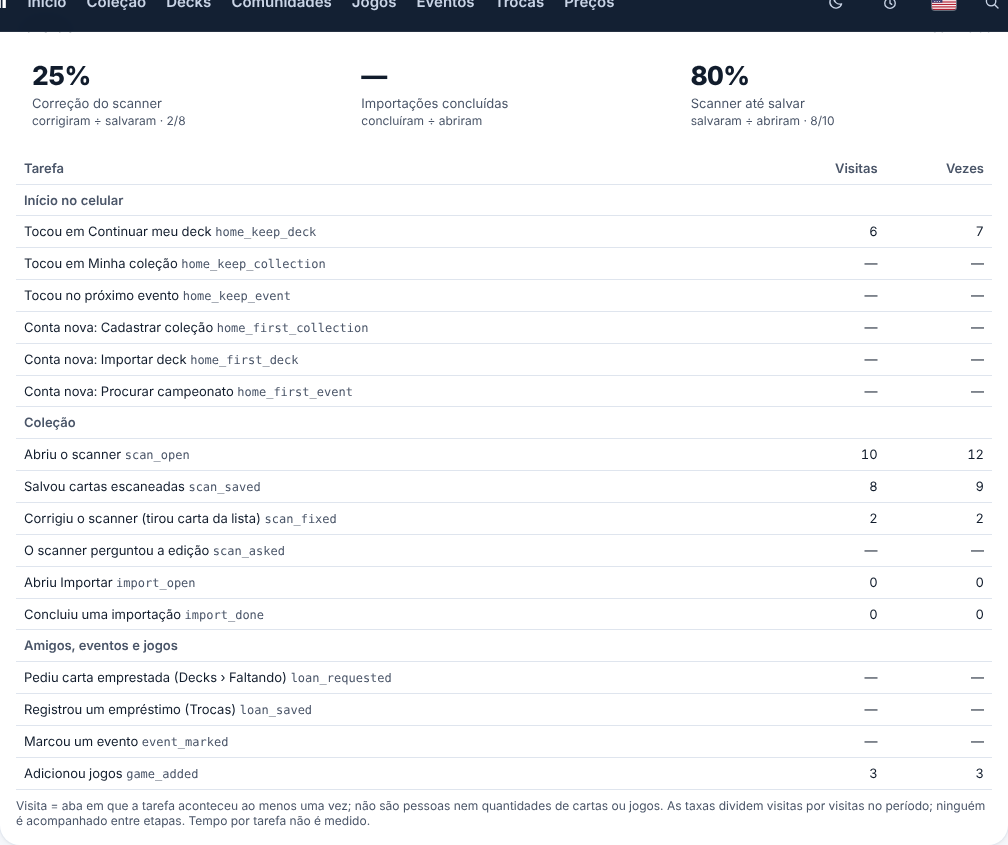
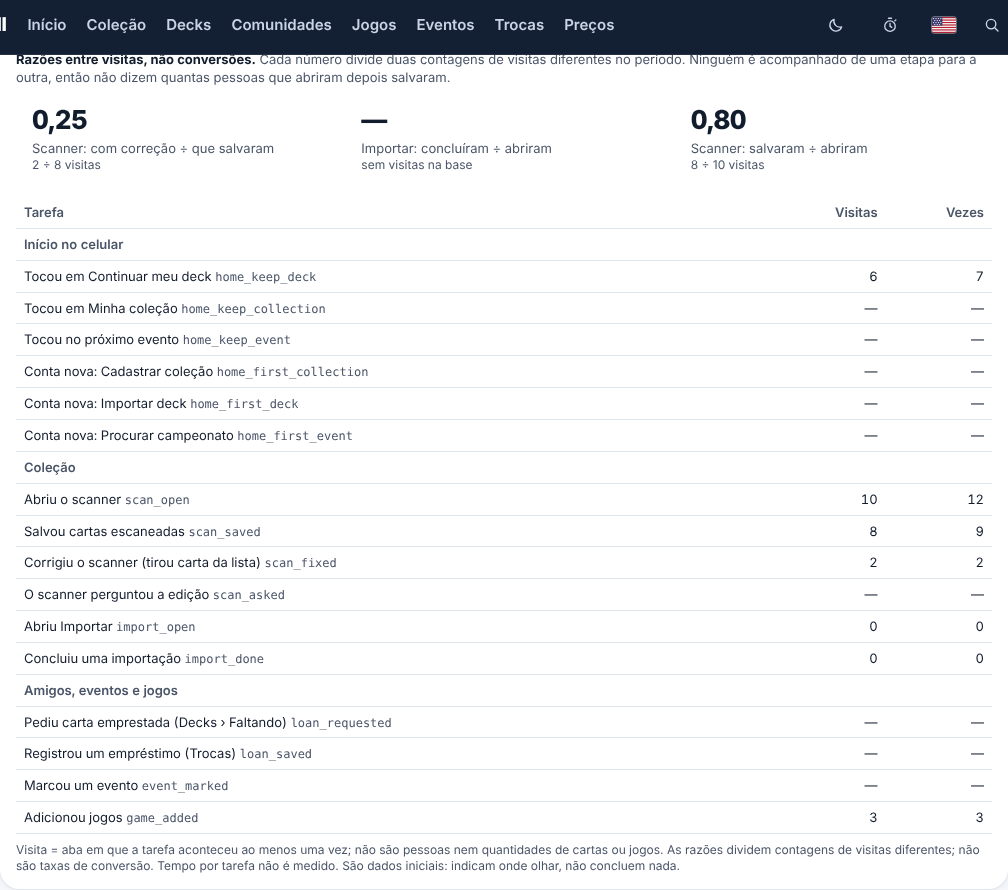
fix(admin): permissões verificadas como em produção; taxas como razões entre visitas
Revisão do Conselho (#242):
- tools/metrics_tasks_sql_test.sh reproduz o que produção tem (lido só por consulta em
  17/11): funções novas em public nascem executáveis por anon/authenticated/
  service_role; tudo pertence a postgres. Verifica dono postgres, SECURITY DEFINER,
  search_path vazio, privilégios idênticos aos de admin_metrics (nunca anon), três
  execuções sem mudança, e chama como os papéis reais: anon recusado
  (permission denied), membro recusado (not allowed), admin lê. Um teste de mutação
  (sem o revoke de anon) reprova.
- Painel: as três taxas viram razões (0,25 · 2 ÷ 8 visitas), com aviso de que são
  contagens de visitas diferentes, não conversões; nada em porcentagem.

Claude-Session: https://claude.ai/code/session_01FVbTkUiCCiwGnRgKq7JAgu

diff --git a/site/admin/index.html b/site/admin/index.html
@@ -474,21 +474,26 @@ window.INKWELL_CLOUD = (() => {
       ["scan_asked", "O scanner perguntou a edição", "The scanner asked which printing"], ["import_open", "Abriu Importar", "Opened Import"], ["import_done", "Concluiu uma importação", "Finished an import"]]],
     ["Amigos, eventos e jogos", "Friends, events and games", [["loan_requested", "Pediu carta emprestada (Decks › Faltando)", "Asked to borrow (Decks › Missing)"], ["loan_saved", "Registrou um empréstimo (Trocas)", "Logged a loan (Trades)"],
       ["event_marked", "Marcou um evento", "Marked an event"], ["game_added", "Adicionou jogos", "Added games"]]]];
-  const RATES = [["scan_fixed", "scan_saved", "Correção do scanner", "Scanner corrections", "corrigiram ÷ salvaram", "fixed ÷ saved"],
-    ["import_done", "import_open", "Importações concluídas", "Imports finished", "concluíram ÷ abriram", "finished ÷ opened"],
-    ["scan_saved", "scan_open", "Scanner até salvar", "Scanner through to saving", "salvaram ÷ abriram", "saved ÷ opened"]];
+  // Ratios between counts of DIFFERENT visits in the period, not conversion rates: nobody is followed from one step to
+  // the next, so a visit that fixed the scanner is not necessarily one of the visits that saved. Shown as a ratio
+  // ("0,25 · 2 ÷ 8 visitas"), never as a percentage of people; no ratio when the base is zero.
+  const RATES = [["scan_fixed", "scan_saved", "Scanner: com correção ÷ que salvaram", "Scanner: fixed ÷ saved"],
+    ["import_done", "import_open", "Importar: concluíram ÷ abriram", "Import: finished ÷ opened"],
+    ["scan_saved", "scan_open", "Scanner: salvaram ÷ abriram", "Scanner: saved ÷ opened"]];
   function tasksHtml() {
     if (tasksErr) return `<section class="card" data-testid="tasks" style="margin-bottom:var(--sp-4)"><b>${PP("Tarefas", "Tasks")}</b><p class="small muted" data-testid="tasks-error" style="margin:var(--sp-2) 0 0">${esc(tasksErr)}</p></section>`;
     if (!tasks) return "";
     const ev = new Map((tasks.events || []).map((e) => [e.name, e])), vis = (k) => (ev.has(k) ? +ev.get(k).visits || 0 : null);
-    const rate = ([a, b, pt, en, hpt, hen]) => { const x = vis(a), y = vis(b), ok = x != null && y != null && y > 0 && x <= y;
-      return `<div class="stat" data-testid="rate-${a}"><b>${ok ? Math.round((x / y) * 100) + "%" : "—"}</b><span>${esc(PP(pt, en))}</span><small class="micro muted" style="display:block">${esc(PP(hpt, hen))}${ok ? ` · ${num(x)}/${num(y)}` : ""}</small></div>`; };
+    const rate = ([a, b, pt, en]) => { const x = vis(a), y = vis(b), ok = x != null && y != null && y > 0;
+      const v = ok ? (x / y).toLocaleString(LOC, { minimumFractionDigits: 2, maximumFractionDigits: 2 }) : "—";
+      return `<div class="stat" data-testid="rate-${a}"><b>${v}</b><span>${esc(PP(pt, en))}</span><small class="micro muted" style="display:block">${ok ? esc(PP(`${num(x)} ÷ ${num(y)} visitas`, `${num(x)} ÷ ${num(y)} visits`)) : esc(PP("sem visitas na base", "no visits in the base"))}</small></div>`; };
     const rows = TASKS.map(([gpt, gen, list]) => `<tr><th colspan="3" scope="colgroup" style="text-align:left">${esc(PP(gpt, gen))}</th></tr>` + list.map(([k, pt, en]) => { const e = ev.get(k);
       return `<tr data-task="${k}"><td>${esc(PP(pt, en))} <code class="micro muted">${k}</code></td><td>${e ? num(e.visits) : "—"}</td><td>${e ? num(e.count) : "—"}</td></tr>`; }).join("")).join("");
     return `<section class="card" data-testid="tasks" style="margin-bottom:var(--sp-4)"><div class="hd"><h3>${PP("Tarefas", "Tasks")}</h3><span class="small muted">${esc(PP(`últimos ${tasks.days} dias`, `last ${tasks.days} days`))}</span></div>
-      <div class="stats-row" style="margin-top:var(--sp-3)">${RATES.map(rate).join("")}</div>
+      <p class="small" style="margin:var(--sp-3) 0 0" data-testid="rates-note"><b>${PP("Razões entre visitas, não conversões.", "Ratios between visits, not conversions.")}</b> <span class="muted">${PP("Cada número divide duas contagens de visitas diferentes no período. Ninguém é acompanhado de uma etapa para a outra, então não dizem quantas pessoas que abriram depois salvaram.", "Each number divides two counts of different visits in the period. Nobody is followed from one step to the next, so they do not say how many people who opened then saved.")}</span></p>
+      <div class="stats-row" style="margin-top:var(--sp-2)">${RATES.map(rate).join("")}</div>
       <div class="st-wrap" style="margin-top:var(--sp-3)"><table class="st-table" data-testid="tasks-table"><thead><tr><th>${PP("Tarefa", "Task")}</th><th>${PP("Visitas", "Visits")}</th><th>${PP("Vezes", "Times")}</th></tr></thead><tbody>${rows}</tbody></table></div>
-      <p class="micro muted" style="margin:var(--sp-2) 0 0">${PP("Visita = aba em que a tarefa aconteceu ao menos uma vez; não são pessoas nem quantidades de cartas ou jogos. As taxas dividem visitas por visitas no período; ninguém é acompanhado entre etapas. Tempo por tarefa não é medido.", "Visit = a tab in which the task happened at least once; not people, nor numbers of cards or games. Rates divide visits by visits in the period; nobody is followed between steps. Time per task is not measured.")}</p></section>`;
+      <p class="micro muted" style="margin:var(--sp-2) 0 0">${PP("Visita = aba em que a tarefa aconteceu ao menos uma vez; não são pessoas nem quantidades de cartas ou jogos. As razões dividem contagens de visitas diferentes; não são taxas de conversão. Tempo por tarefa não é medido. São dados iniciais: indicam onde olhar, não concluem nada.", "Visit = a tab in which the task happened at least once; not people, nor numbers of cards or games. The ratios divide counts of different visits; they are not conversion rates. Time per task is not measured. Early data: it shows where to look, it concludes nothing.")}</p></section>`;
   }
   async function loadStats() {
     const mine = ++statLoading;

diff --git a/src/site/admin/admin.template.html b/src/site/admin/admin.template.html
@@ -219,21 +219,26 @@
       ["scan_asked", "O scanner perguntou a edição", "The scanner asked which printing"], ["import_open", "Abriu Importar", "Opened Import"], ["import_done", "Concluiu uma importação", "Finished an import"]]],
     ["Amigos, eventos e jogos", "Friends, events and games", [["loan_requested", "Pediu carta emprestada (Decks › Faltando)", "Asked to borrow (Decks › Missing)"], ["loan_saved", "Registrou um empréstimo (Trocas)", "Logged a loan (Trades)"],
       ["event_marked", "Marcou um evento", "Marked an event"], ["game_added", "Adicionou jogos", "Added games"]]]];
-  const RATES = [["scan_fixed", "scan_saved", "Correção do scanner", "Scanner corrections", "corrigiram ÷ salvaram", "fixed ÷ saved"],
-    ["import_done", "import_open", "Importações concluídas", "Imports finished", "concluíram ÷ abriram", "finished ÷ opened"],
-    ["scan_saved", "scan_open", "Scanner até salvar", "Scanner through to saving", "salvaram ÷ abriram", "saved ÷ opened"]];
+  // Ratios between counts of DIFFERENT visits in the period, not conversion rates: nobody is followed from one step to
+  // the next, so a visit that fixed the scanner is not necessarily one of the visits that saved. Shown as a ratio
+  // ("0,25 · 2 ÷ 8 visitas"), never as a percentage of people; no ratio when the base is zero.
+  const RATES = [["scan_fixed", "scan_saved", "Scanner: com correção ÷ que salvaram", "Scanner: fixed ÷ saved"],
+    ["import_done", "import_open", "Importar: concluíram ÷ abriram", "Import: finished ÷ opened"],
+    ["scan_saved", "scan_open", "Scanner: salvaram ÷ abriram", "Scanner: saved ÷ opened"]];
   function tasksHtml() {
     if (tasksErr) return `<section class="card" data-testid="tasks" style="margin-bottom:var(--sp-4)"><b>${PP("Tarefas", "Tasks")}</b><p class="small muted" data-testid="tasks-error" style="margin:var(--sp-2) 0 0">${esc(tasksErr)}</p></section>`;
     if (!tasks) return "";
     const ev = new Map((tasks.events || []).map((e) => [e.name, e])), vis = (k) => (ev.has(k) ? +ev.get(k).visits || 0 : null);
-    const rate = ([a, b, pt, en, hpt, hen]) => { const x = vis(a), y = vis(b), ok = x != null && y != null && y > 0 && x <= y;
-      return `<div class="stat" data-testid="rate-${a}"><b>${ok ? Math.round((x / y) * 100) + "%" : "—"}</b><span>${esc(PP(pt, en))}</span><small class="micro muted" style="display:block">${esc(PP(hpt, hen))}${ok ? ` · ${num(x)}/${num(y)}` : ""}</small></div>`; };
+    const rate = ([a, b, pt, en]) => { const x = vis(a), y = vis(b), ok = x != null && y != null && y > 0;
+      const v = ok ? (x / y).toLocaleString(LOC, { minimumFractionDigits: 2, maximumFractionDigits: 2 }) : "—";
+      return `<div class="stat" data-testid="rate-${a}"><b>${v}</b><span>${esc(PP(pt, en))}</span><small class="micro muted" style="display:block">${ok ? esc(PP(`${num(x)} ÷ ${num(y)} visitas`, `${num(x)} ÷ ${num(y)} visits`)) : esc(PP("sem visitas na base", "no visits in the base"))}</small></div>`; };
     const rows = TASKS.map(([gpt, gen, list]) => `<tr><th colspan="3" scope="colgroup" style="text-align:left">${esc(PP(gpt, gen))}</th></tr>` + list.map(([k, pt, en]) => { const e = ev.get(k);
       return `<tr data-task="${k}"><td>${esc(PP(pt, en))} <code class="micro muted">${k}</code></td><td>${e ? num(e.visits) : "—"}</td><td>${e ? num(e.count) : "—"}</td></tr>`; }).join("")).join("");
     return `<section class="card" data-testid="tasks" style="margin-bottom:var(--sp-4)"><div class="hd"><h3>${PP("Tarefas", "Tasks")}</h3><span class="small muted">${esc(PP(`últimos ${tasks.days} dias`, `last ${tasks.days} days`))}</span></div>
-      <div class="stats-row" style="margin-top:var(--sp-3)">${RATES.map(rate).join("")}</div>
+      <p class="small" style="margin:var(--sp-3) 0 0" data-testid="rates-note"><b>${PP("Razões entre visitas, não conversões.", "Ratios between visits, not conversions.")}</b> <span class="muted">${PP("Cada número divide duas contagens de visitas diferentes no período. Ninguém é acompanhado de uma etapa para a outra, então não dizem quantas pessoas que abriram depois salvaram.", "Each number divides two counts of different visits in the period. Nobody is followed from one step to the next, so they do not say how many people who opened then saved.")}</span></p>
+      <div class="stats-row" style="margin-top:var(--sp-2)">${RATES.map(rate).join("")}</div>
       <div class="st-wrap" style="margin-top:var(--sp-3)"><table class="st-table" data-testid="tasks-table"><thead><tr><th>${PP("Tarefa", "Task")}</th><th>${PP("Visitas", "Visits")}</th><th>${PP("Vezes", "Times")}</th></tr></thead><tbody>${rows}</tbody></table></div>
-      <p class="micro muted" style="margin:var(--sp-2) 0 0">${PP("Visita = aba em que a tarefa aconteceu ao menos uma vez; não são pessoas nem quantidades de cartas ou jogos. As taxas dividem visitas por visitas no período; ninguém é acompanhado entre etapas. Tempo por tarefa não é medido.", "Visit = a tab in which the task happened at least once; not people, nor numbers of cards or games. Rates divide visits by visits in the period; nobody is followed between steps. Time per task is not measured.")}</p></section>`;
+      <p class="micro muted" style="margin:var(--sp-2) 0 0">${PP("Visita = aba em que a tarefa aconteceu ao menos uma vez; não são pessoas nem quantidades de cartas ou jogos. As razões dividem contagens de visitas diferentes; não são taxas de conversão. Tempo por tarefa não é medido. São dados iniciais: indicam onde olhar, não concluem nada.", "Visit = a tab in which the task happened at least once; not people, nor numbers of cards or games. The ratios divide counts of different visits; they are not conversion rates. Time per task is not measured. Early data: it shows where to look, it concludes nothing.")}</p></section>`;
   }
   async function loadStats() {
     const mine = ++statLoading;
